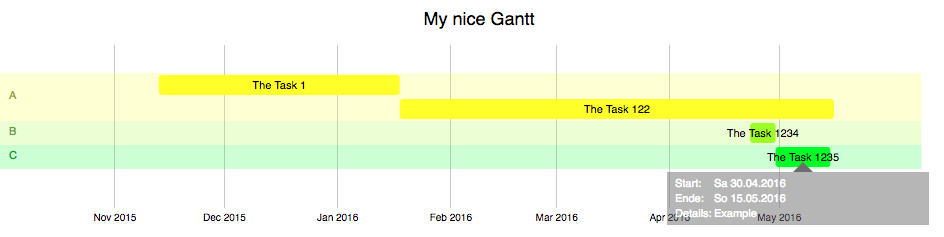
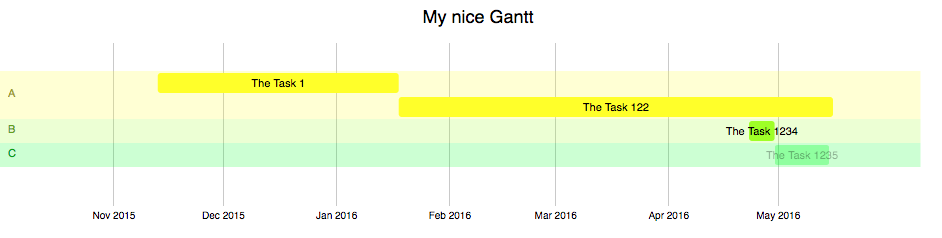
Relevance (opacity) of a task can be specified

diff --git a/js/gantt.js b/js/gantt.js
@@ -182,6 +182,11 @@ function drawRects(theArray, theGap, theTopPad, theSidePad, theBarHeight, theCol
       }  
     }
   })
+  .attr("opacity", function(d){
+    if (d.relevance != undefined){
+      return d.relevance;
+    }
+  });
 
 
   var rectText = rectangles.append("text")
@@ -197,7 +202,12 @@ function drawRects(theArray, theGap, theTopPad, theSidePad, theBarHeight, theCol
   .attr("font-size", 11)
   .attr("text-anchor", "middle")
   .attr("text-height", theBarHeight)
-  .attr("fill", "#000"); // text color
+  .attr("fill", "#000")
+  .attr("opacity", function(d){
+    if (d.relevance != undefined){
+      return d.relevance;
+    }
+  }); // text color
 
 
 

diff --git a/js/gantt_variables.js b/js/gantt_variables.js
@@ -39,6 +39,7 @@ window.taskArray = [
   {
     task: "The Task 1235",
     type: "C",
+    relevance: 0.3,
     startTime: "2016-04-30",
     endTime: "2016-05-15",
     details: "Example"

diff --git a/README.md b/README.md
@@ -6,3 +6,9 @@ I made many modifications so that it worked for my projects.
 You basically just need to modify js/gantt_variables.js to use your content.
 
 ![example](Example.png)
+
+Features:
+
+- The chart can be used for several months or one day (see gantt_variables.js)
+- The relevance (opacity) of a task can be specified (see The Task 1235)
+- Tasks can be highlighted with states (see gantt_variables.js)
